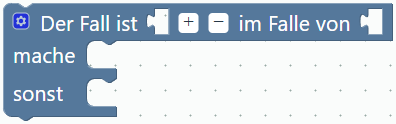
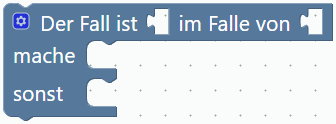
Document ioBroker-style gear controls and refresh block images

diff --git a/docs/projects/blocks-for-ha/blocks.md b/docs/projects/blocks-for-ha/blocks.md
@@ -5,6 +5,8 @@ description: Alle UGSo Blocks für HA mit Bild, Funktion und Originalplugins.
 
 # Liste der Blocks
 
+Seit **0.1.58** orientiert sich die Bedienung möglichst eng an ioBroker: Erweiterungen ausschließlich über das Zahnrad, ohne zusätzliche +/−/S-Knöpfe. Dies gilt auch für Objekte, Listen, Text, Fallauswahl und Parallel. Der kompakte UND-/ODER-Block ist aus dem Menü entfernt; alte Projekte bleiben lesbar. HA-Felder, Verbindungen und YAML-Funktionen bleiben erhalten. Ziel ist vertraute ioBroker-Optik bei umfassender HA-Automationsunterstützung.
+
 ## Nachrichten seit 0.1.48
 
 Neue Kategorie **Nachrichten**, drei DE/EN/FR-Bausteine. [Einrichtung, Schlüsselverwaltung und Versand](../callmebot/).
@@ -67,7 +69,7 @@ In Standard/Dark sind Auslöser orange, Bedingungen und Logik blau, Werte grün,
 | **Zufallsbruch**<br><code>ugso_math_random_fraction</code> | <img src="/assets/blocks-for-ha/blocks/de/ugso_math_random_fraction.png" alt="Zufallsbruch" style="max-width:280px;max-height:180px"> | Zufallswert in Schritten von 0,00001. Kein kryptografischer Zufall; bei jeder Auswertung neu. |
 | **Winkel atan2**<br><code>ugso_math_atan2</code> | <img src="/assets/blocks-for-ha/blocks/de/ugso_math_atan2.png" alt="Winkel atan2" style="max-width:280px;max-height:180px"> | Vierquadranten-Winkelfunktion aus dem Blockly-Standard, zusätzlich zu den gezeigten Bildern. |
 | **Zeilenumbruch**<br><code>ugso_text_newline</code> | <img src="/assets/blocks-for-ha/blocks/de/ugso_text_newline.png" alt="Zeilenumbruch" style="max-width:280px;max-height:180px"> | Liefert einen echten Zeilenumbruch für Textverknüpfung. |
-| **Text verknüpfen**<br><code>ugso_text_join</code> | <img src="/assets/blocks-for-ha/blocks/de/ugso_text_join.png" alt="Text verknüpfen" style="max-width:280px;max-height:180px"> | Verknüpft 0–100 Werte als Text. Zahnrad und +/− ändern die Anzahl der Eingänge. |
+| **Text verknüpfen**<br><code>ugso_text_join</code> | <img src="/assets/blocks-for-ha/blocks/de/ugso_text_join.png" alt="Text verknüpfen" style="max-width:280px;max-height:180px"> | Verknüpft 0–100 Werte als Text. Zahnrad ändern die Anzahl der Eingänge. |
 | **Text anhängen**<br><code>ugso_text_append</code> | <img src="/assets/blocks-for-ha/blocks/de/ugso_text_append.png" alt="Text anhängen" style="max-width:280px;max-height:180px"> | Weist der vorher initialisierten Textvariable einen neuen Text zu. Kein Schreiben einer HA-Entität. |
 | **Textlänge**<br><code>ugso_text_length</code> | <img src="/assets/blocks-for-ha/blocks/de/ugso_text_length.png" alt="Textlänge" style="max-width:280px;max-height:180px"> | Anzahl Unicode-Codepunkte, nicht JavaScript-UTF-16-Codeeinheiten. |
 | **Text ist leer**<br><code>ugso_text_empty</code> | <img src="/assets/blocks-for-ha/blocks/de/ugso_text_empty.png" alt="Text ist leer" style="max-width:280px;max-height:180px"> | Prüft einen Text auf Länge 0. |
@@ -144,7 +146,7 @@ Die violetten Zeit-Blocks verwenden einen eigenen typisierten Datumswert-Anschlu
 | **Aktuelle Zeit als Datumswert**<br><code>ugso_time_now</code> | <img src="/assets/blocks-for-ha/blocks/de/ugso_time_now.png" alt="Aktuelle Zeit als Datumswert" style="max-width:280px;max-height:180px"> | HA-Ortszeit mit Datum und Zeitzone, Time-Ausgang für Berechnung oder Formatierung. |
 | **Berechnete Zeit**<br><code>ugso_time_boundary</code> | <img src="/assets/blocks-for-ha/blocks/de/ugso_time_boundary.png" alt="Berechnete Zeit" style="max-width:280px;max-height:180px"> | Beginn von Tag, nächstem Tag, Woche (Montag), Monat oder Jahr in HA-Ortszeit. |
 | **Nächste Sonnenzeit**<br><code>ugso_time_sun</code> | <img src="/assets/blocks-for-ha/blocks/de/ugso_time_sun.png" alt="Nächste Sonnenzeit" style="max-width:280px;max-height:180px"> | Aufgang, Untergang, Dämmerung, Höchststand oder Sonnenmitternacht aus sun.sun. Minutenoffset; kann morgen sein. |
-| **Zeit berechnen**<br><code>ugso_time_shift</code> | <img src="/assets/blocks-for-ha/blocks/de/ugso_time_shift.png" alt="Zeit berechnen" style="max-width:280px;max-height:180px"> | Datumswert plus/minus Zahl in Millisekunden, Sekunden, Minuten, Stunden oder Tagen. |
+| **Zeit berechnen**<br><code>ugso_time_shift</code> | <img src="/assets/blocks-for-ha/blocks/de/ugso_time_shift.png" alt="Zeit berechnen" style="max-width:280px;max-height:180px"> | Datumswert gear Zahl in Millisekunden, Sekunden, Minuten, Stunden oder Tagen. |
 | **Zeit formatieren**<br><code>ugso_time_format</code> | <img src="/assets/blocks-for-ha/blocks/de/ugso_time_format.png" alt="Zeit formatieren" style="max-width:280px;max-height:180px"> | Datumswert als Uhrzeit, Datum, Datum/Uhrzeit, ISO mit Zeitzone oder Unix-Sekunden. |
 
 ## Weitere Blocks
@@ -159,7 +161,7 @@ Die violetten Zeit-Blocks verwenden einen eigenen typisierten Datumswert-Anschlu
 | **HA startet**<br><code>ugso_start_trigger</code> | <img src="/assets/blocks-for-ha/blocks/de/ugso_start_trigger.png" alt="HA startet" style="max-width:280px;max-height:180px"> | Startet beim Home-Assistant-Start; `trigger: homeassistant`. |
 | **Zustand ist**<br><code>ugso_state_condition</code> | <img src="/assets/blocks-for-ha/blocks/de/ugso_state_condition.png" alt="Zustand ist" style="max-width:280px;max-height:180px"> | Boolean-Bedingung: Entität hat den angegebenen Zustand; `condition: state`. |
 | **Zahlenvergleich**<br><code>ugso_numeric_condition</code> | <img src="/assets/blocks-for-ha/blocks/de/ugso_numeric_condition.png" alt="Zahlenvergleich" style="max-width:280px;max-height:180px"> | Boolean-Bedingung über/unter einer Grenze; `condition: numeric_state`. |
-| **UND / ODER / NICHT**<br><code>ugso_logic_condition</code> | <img src="/assets/blocks-for-ha/blocks/de/ugso_logic_condition.png" alt="UND / ODER / NICHT" style="max-width:280px;max-height:180px"> | Verknüpft 1–100 Bedingungen. Plus/Minus ergänzt oder entfernt den letzten Eingang; Zahnrad ordnet um. `and`, `or`, `not`. |
+| **UND / ODER / NICHT**<br><code>ugso_logic_condition</code> | <img src="/assets/blocks-for-ha/blocks/de/ugso_logic_condition.png" alt="UND / ODER / NICHT" style="max-width:280px;max-height:180px"> | Verknüpft 1–100 Bedingungen. Das Zahnrad ergänzt, entfernt und ordnet Eingänge um. `and`, `or`, `not`. |
 | **Datum heute**<br><code>ugso_date_condition</code> | <img src="/assets/blocks-for-ha/blocks/de/ugso_date_condition.png" alt="Datum heute" style="max-width:280px;max-height:180px"> | Datumsauswahl mit ist/ab/bis einschließlich Jahr. HA-Template vergleicht das heutige Datum in der HA-Zeitzone. Kein eigener Auslöser. |
 | **Zahl**<br><code>ugso_number</code> | <img src="/assets/blocks-for-ha/blocks/de/ugso_number.png" alt="Zahl" style="max-width:280px;max-height:180px"> | Unbegrenzter Zahlen-Wertblock. Passt in Grenzen und Wartezeiten; deren eigene Validierung gilt weiterhin. |
 | **Prozent**<br><code>ugso_percent</code> | <img src="/assets/blocks-for-ha/blocks/de/ugso_percent.png" alt="Prozent" style="max-width:280px;max-height:180px"> | Slider und genaue Eingabe für ganze Werte 0–100. Number-Output, beispielsweise für Ladezustand oder Helligkeit. |
@@ -211,9 +213,9 @@ Seit **0.1.56** steht hier auch der erweiterbare Falls-Block. Logik ist in Stand
 
 | Block | Bild im Editor | Funktionsbeschreibung |
 | --- | --- | --- |
-| **Falls / sonst falls / sonst**<br><code>ugso_if_action</code> | <img src="/assets/blocks-for-ha/blocks/de/ugso_if_action.png" alt="Falls / sonst falls / sonst" style="max-width:280px;max-height:180px"> | Plus/Minus ergänzt oder entfernt den letzten sonst-falls-Zweig; S schaltet Sonst um. Zahnrad zum Umordnen. `if` oder `choose`, erster passender Zweig. |
+| **Falls / sonst falls / sonst**<br><code>ugso_if_action</code> | <img src="/assets/blocks-for-ha/blocks/de/ugso_if_action.png" alt="Falls / sonst falls / sonst" style="max-width:280px;max-height:180px"> | Das Zahnrad ergänzt, entfernt und ordnet sonst-falls-Zweige um und fügt Sonst hinzu. `if` oder `choose`, erster passender Zweig. |
 | **Vergleich**<br><code>ugso_compare</code> | <img src="/assets/blocks-for-ha/blocks/de/ugso_compare.png" alt="Vergleich" style="max-width:280px;max-height:180px"> | Vergleicht zwei Werte mit =, ≠, &lt;, ≤, &gt; oder ≥. Zahlen, Texte, Variablen und einzelne Template-Ausdrücke anschließen. Liefert Boolean; Ausgabe als HA-Template-Bedingung oder Variablenwert. |
-| **UND / ODER kompakt**<br><code>ugso_binary_logic</code> | <img src="/assets/blocks-for-ha/blocks/de/ugso_binary_logic.png" alt="UND ODER kompakt" style="max-width:280px;max-height:180px"> | Zwei Boolean-Eingänge. Als Bedingung native HA-`and`/`or`-Gruppe; als Variablenwert geklammerter Jinja-Ausdruck. Die erweiterbare Gruppe bleibt für mehr Eingänge verfügbar. |
+| **UND / ODER kompakt**<br><code>ugso_binary_logic</code> | <img src="/assets/blocks-for-ha/blocks/de/ugso_binary_logic.png" alt="UND ODER kompakt" style="max-width:280px;max-height:180px"> | Nur für bestehende Projekte; aus der Blockauswahl entfernt. Stattdessen die erweiterbare UND-/ODER-Gruppe verwenden. |
 | **NICHT**<br><code>ugso_not</code> | <img src="/assets/blocks-for-ha/blocks/de/ugso_not.png" alt="NICHT" style="max-width:280px;max-height:180px"> | Negiert eine Boolean-Bedingung. Als Bedingung native HA-`not`-Gruppe, als Variablenwert Jinja-`not`. |
 | **wahr / falsch**<br><code>ugso_boolean</code> | <img src="/assets/blocks-for-ha/blocks/de/ugso_boolean.png" alt="wahr falsch" style="max-width:280px;max-height:180px"> | Boolean-Konstante mit Dropdown. Für Bedingungen und Variablen; die Zuweisung erzeugt echte YAML-Boolean-Werte. |
 | **null**<br><code>ugso_null</code> | <img src="/assets/blocks-for-ha/blocks/de/ugso_null.png" alt="null" style="max-width:280px;max-height:180px"> | Kein Wert. Variablen erhalten YAML `null`, Ausdrücke Jinja `none`. Weder `0` noch `falsch`; kein Boolean-Bedingungsblock. |
@@ -227,7 +229,7 @@ JSON-Projekte bewahren die Blockformen und Anschlüsse. YAML speichert die nativ
 
 ## Originalplugins und Einbindung
 
-Die sechs bisherigen Originalplugins sind auf **13.2.0**, die vier Theme-/Zoom-Plugins und die Arbeitsbereichssuche auf **13.3.0** festgelegt und werden lokal mit Blockly **13.3.0** ausgeliefert. Lizenz: Apache-2.0. Die folgenden Links führen direkt zu den Original-Repositories. Unsere HA-Blocks, YAML-Adapter und Plus/Minus-Steuerung sind eigener UGSo-Code.
+Die sechs bisherigen Originalplugins sind auf **13.2.0**, die vier Theme-/Zoom-Plugins und die Arbeitsbereichssuche auf **13.3.0** festgelegt und werden lokal mit Blockly **13.3.0** ausgeliefert. Lizenz: Apache-2.0. Die folgenden Links führen direkt zu den Original-Repositories. Unsere HA-Blocks, YAML-Adapter und Zahnrad-Baukästen sind eigener UGSo-Code.
 
 | Originalplugin | Nutzung / Stand |
 | --- | --- |

diff --git a/docs/en/projects/blocks-for-ha/blocks.md b/docs/en/projects/blocks-for-ha/blocks.md
@@ -5,6 +5,8 @@ description: All Blocks for HA with images, functionality and original plugins.
 
 # Block catalog
 
+Since **0.1.58**, controls follow ioBroker as closely as possible: expansion uses the gear only, without additional +/minus/S buttons. This also applies to objects, lists, text, cases and parallel branches. Compact AND/OR is removed from the toolbox; existing projects remain readable. HA fields, connections and YAML features remain supported. The design goal is familiar ioBroker appearance with comprehensive HA automation support.
+
 ## Messages since 0.1.48
 
 New **Messages** category, three DE/EN/FR blocks. [Setup, credentials and sending](../callmebot/).
@@ -67,7 +69,7 @@ In Standard/Dark, triggers are orange, conditions and logic blue, values green, 
 | **Random fraction**<br><code>ugso_math_random_fraction</code> | <img src="/assets/blocks-for-ha/blocks/en/ugso_math_random_fraction.png" alt="Random fraction" style="max-width:280px;max-height:180px"> | 0 up to but excluding 1, in increments of 0.00001; evaluated anew each time. |
 | **atan2 angle**<br><code>ugso_math_atan2</code> | <img src="/assets/blocks-for-ha/blocks/en/ugso_math_atan2.png" alt="atan2 angle" style="max-width:280px;max-height:180px"> | Additional Blockly standard operation; four-quadrant angle in degrees. |
 | **Newline**<br><code>ugso_text_newline</code> | <img src="/assets/blocks-for-ha/blocks/en/ugso_text_newline.png" alt="Newline" style="max-width:280px;max-height:180px"> | Actual LF, CRLF or CR newline value. |
-| **Join text**<br><code>ugso_text_join</code> | <img src="/assets/blocks-for-ha/blocks/en/ugso_text_join.png" alt="Join text" style="max-width:280px;max-height:180px"> | 0–100 inputs combined as text; gear or +/− controls the input count. |
+| **Join text**<br><code>ugso_text_join</code> | <img src="/assets/blocks-for-ha/blocks/en/ugso_text_join.png" alt="Join text" style="max-width:280px;max-height:180px"> | 0–100 inputs combined as text; the gear controls the input count. |
 | **Append text**<br><code>ugso_text_append</code> | <img src="/assets/blocks-for-ha/blocks/en/ugso_text_append.png" alt="Append text" style="max-width:280px;max-height:180px"> | Assign a new value to an already initialized text variable. |
 | **Text length**<br><code>ugso_text_length</code> | <img src="/assets/blocks-for-ha/blocks/en/ugso_text_length.png" alt="Text length" style="max-width:280px;max-height:180px"> | Count Unicode code points rather than JavaScript UTF-16 units. |
 | **Text empty**<br><code>ugso_text_empty</code> | <img src="/assets/blocks-for-ha/blocks/en/ugso_text_empty.png" alt="Text empty" style="max-width:280px;max-height:180px"> | Check whether text has length zero. |
@@ -144,7 +146,7 @@ Purple time blocks use a typed datetime socket. [Usage, boundary rules and compa
 | **Current datetime**<br><code>ugso_time_now</code> | <img src="/assets/blocks-for-ha/blocks/en/ugso_time_now.png" alt="Current datetime" style="max-width:280px;max-height:180px"> | HA local date, time and timezone. Typed Time output. |
 | **Calendar start**<br><code>ugso_time_boundary</code> | <img src="/assets/blocks-for-ha/blocks/en/ugso_time_boundary.png" alt="Calendar start" style="max-width:280px;max-height:180px"> | Start of today, tomorrow, week (Monday), month or year. |
 | **Next sun event**<br><code>ugso_time_sun</code> | <img src="/assets/blocks-for-ha/blocks/en/ugso_time_sun.png" alt="Next sun event" style="max-width:280px;max-height:180px"> | Rise, set, dawn, dusk, solar noon or midnight from sun.sun, with minute offset. May be tomorrow. |
-| **Shift datetime**<br><code>ugso_time_shift</code> | <img src="/assets/blocks-for-ha/blocks/en/ugso_time_shift.png" alt="Shift datetime" style="max-width:280px;max-height:180px"> | Datetime plus/minus number in milliseconds, seconds, minutes, hours or days. |
+| **Shift datetime**<br><code>ugso_time_shift</code> | <img src="/assets/blocks-for-ha/blocks/en/ugso_time_shift.png" alt="Shift datetime" style="max-width:280px;max-height:180px"> | Datetime gear number in milliseconds, seconds, minutes, hours or days. |
 | **Format datetime**<br><code>ugso_time_format</code> | <img src="/assets/blocks-for-ha/blocks/en/ugso_time_format.png" alt="Format datetime" style="max-width:280px;max-height:180px"> | Clock time, date, date/time, ISO with timezone or Unix seconds. |
 
 ## Other blocks
@@ -159,7 +161,7 @@ Purple time blocks use a typed datetime socket. [Usage, boundary rules and compa
 | **HA starts**<br><code>ugso_start_trigger</code> | <img src="/assets/blocks-for-ha/blocks/en/ugso_start_trigger.png" alt="HA starts" style="max-width:280px;max-height:180px"> | Starts when Home Assistant starts; `trigger: homeassistant`. |
 | **State is**<br><code>ugso_state_condition</code> | <img src="/assets/blocks-for-ha/blocks/en/ugso_state_condition.png" alt="State is" style="max-width:280px;max-height:180px"> | Boolean condition: entity has the specified state; `condition: state`. |
 | **Numeric condition**<br><code>ugso_numeric_condition</code> | <img src="/assets/blocks-for-ha/blocks/en/ugso_numeric_condition.png" alt="Numeric condition" style="max-width:280px;max-height:180px"> | Boolean above/below threshold condition; `condition: numeric_state`. |
-| **AND / OR / NOT**<br><code>ugso_logic_condition</code> | <img src="/assets/blocks-for-ha/blocks/en/ugso_logic_condition.png" alt="AND / OR / NOT" style="max-width:280px;max-height:180px"> | Combines 1–100 conditions. Plus/minus adds or removes the last input; gear reorders. `and`, `or`, `not`. |
+| **AND / OR / NOT**<br><code>ugso_logic_condition</code> | <img src="/assets/blocks-for-ha/blocks/en/ugso_logic_condition.png" alt="AND / OR / NOT" style="max-width:280px;max-height:180px"> | Combines 1–100 conditions. The gear adds, removes and reorders inputs. `and`, `or`, `not`. |
 | **Today’s date**<br><code>ugso_date_condition</code> | <img src="/assets/blocks-for-ha/blocks/en/ugso_date_condition.png" alt="Today’s date" style="max-width:280px;max-height:180px"> | Date picker with equals/on-or-after/on-or-before, including year. HA template compares today in HA’s time zone. Not a trigger. |
 | **Number**<br><code>ugso_number</code> | <img src="/assets/blocks-for-ha/blocks/en/ugso_number.png" alt="Number" style="max-width:280px;max-height:180px"> | General numeric value. Fits thresholds and delays; destination-specific validation still applies. |
 | **Percentage**<br><code>ugso_percent</code> | <img src="/assets/blocks-for-ha/blocks/en/ugso_percent.png" alt="Percentage" style="max-width:280px;max-height:180px"> | Slider and exact input for integers 0–100. Number output, e.g. charge level or brightness. |
@@ -211,9 +213,9 @@ Since **0.1.56**, the expandable If block is available here. Logic is blue and O
 
 | Block | Editor image | Function |
 | --- | --- | --- |
-| **If / else if / else**<br><code>ugso_if_action</code> | <img src="/assets/blocks-for-ha/blocks/en/ugso_if_action.png" alt="If / else if / else" style="max-width:280px;max-height:180px"> | Plus/minus adds or removes the last else-if branch; S toggles else. Gear reorders. `if` or `choose`, first matching branch. |
+| **If / else if / else**<br><code>ugso_if_action</code> | <img src="/assets/blocks-for-ha/blocks/en/ugso_if_action.png" alt="If / else if / else" style="max-width:280px;max-height:180px"> | The gear adds, removes and reorders else-if branches and adds Else. `if` or `choose`, first matching branch. |
 | **Compare**<br><code>ugso_compare</code> | <img src="/assets/blocks-for-ha/blocks/en/ugso_compare.png" alt="Compare" style="max-width:280px;max-height:180px"> | Compares two values using =, ≠, &lt;, ≤, &gt; or ≥. Accepts numbers, text, variables and single template expressions. Boolean result exported as an HA template condition or variable value. |
-| **Compact AND / OR**<br><code>ugso_binary_logic</code> | <img src="/assets/blocks-for-ha/blocks/en/ugso_binary_logic.png" alt="Compact AND OR" style="max-width:280px;max-height:180px"> | Two Boolean inputs. Generates native HA `and`/`or` groups as conditions and parenthesized Jinja as variable values. Expandable groups remain available. |
+| **Compact AND / OR**<br><code>ugso_binary_logic</code> | <img src="/assets/blocks-for-ha/blocks/en/ugso_binary_logic.png" alt="Compact AND OR" style="max-width:280px;max-height:180px"> | Existing projects only; removed from the toolbox. Use the expandable AND/OR group instead. |
 | **NOT**<br><code>ugso_not</code> | <img src="/assets/blocks-for-ha/blocks/en/ugso_not.png" alt="NOT" style="max-width:280px;max-height:180px"> | Negates a Boolean condition. Native HA `not` group as condition, Jinja `not` as variable value. |
 | **true / false**<br><code>ugso_boolean</code> | <img src="/assets/blocks-for-ha/blocks/en/ugso_boolean.png" alt="true false" style="max-width:280px;max-height:180px"> | Boolean constant with dropdown for conditions and variables. Assignments retain native YAML Boolean types. |
 | **null**<br><code>ugso_null</code> | <img src="/assets/blocks-for-ha/blocks/en/ugso_null.png" alt="null" style="max-width:280px;max-height:180px"> | No value: YAML `null` in assignments, Jinja `none` in expressions. Different from `0` and `false`; not a Boolean condition. |
@@ -227,7 +229,7 @@ JSON projects preserve block shapes and connections. YAML preserves native meani
 
 ## Original plugins and integration
 
-The six existing plugins are pinned to **13.2.0**, the four theme/zoom plugins and workspace search to **13.3.0**, all bundled locally with Blockly **13.3.0**. License: Apache-2.0. Links below lead directly to upstream repositories. HA blocks, YAML adapters and plus/minus controls are UGSo code.
+The six existing plugins are pinned to **13.2.0**, the four theme/zoom plugins and workspace search to **13.3.0**, all bundled locally with Blockly **13.3.0**. License: Apache-2.0. Links below lead directly to upstream repositories. HA blocks, YAML adapters and gear controls are UGSo code.
 
 | Originalplugin | Usage / status |
 | --- | --- |

diff --git a/docs/fr/projects/blocks-for-ha/blocks.md b/docs/fr/projects/blocks-for-ha/blocks.md
@@ -5,6 +5,8 @@ description: Tous les blocs UGSo avec images françaises et fonctions.
 
 # Catalogue des blocs
 
+Depuis **0.1.58**, les commandes suivent autant que possible ioBroker : extension uniquement par l’engrenage, sans boutons +/−/S supplémentaires. Cela concerne aussi objets, listes, texte, cas et branches parallèles. ET/OU compact est retiré du menu ; les projets existants restent lisibles. Les champs HA, connexions et fonctions YAML sont conservés. L’objectif est une apparence familière d’ioBroker avec une prise en charge complète des automatisations HA.
+
 ## Messages depuis 0.1.48
 
 Nouvelle catégorie **Messages**, trois blocs DE/EN/FR. [Configuration, clés et envoi](../callmebot/).
@@ -87,7 +89,7 @@ Dans Standard/Dark, les déclencheurs sont orange, les conditions et la logique 
 
 | Bloc | Image | Fonction |
 | --- | --- | --- |
-| **Nouvel objet …**<br><code>ugso_object_new</code> | <img src="/assets/blocks-for-ha/blocks/fr/ugso_object_new.png" alt="Nouvel objet …" style="max-width:280px;max-height:180px"> | Dictionnaire local à attributs nommés. Ajouter des entrées avec l’engrenage ou +/−. Ce n’est ni une entité HA ni un point de données ioBroker. |
+| **Nouvel objet …**<br><code>ugso_object_new</code> | <img src="/assets/blocks-for-ha/blocks/fr/ugso_object_new.png" alt="Nouvel objet …" style="max-width:280px;max-height:180px"> | Dictionnaire local à attributs nommés. Ajouter des entrées avec l’engrenage. Ce n’est ni une entité HA ni un point de données ioBroker. |
 | **Attribut … de l’objet …**<br><code>ugso_object_get</code> | <img src="/assets/blocks-for-ha/blocks/fr/ugso_object_get.png" alt="Attribut … de l’objet …" style="max-width:280px;max-height:180px"> | Lit une clé du dictionnaire, y compris keys/items. Clé absente : null ; type d’objet invalide : erreur de modèle HA. |
 | **L’objet … possède l’attribut …**<br><code>ugso_object_has</code> | <img src="/assets/blocks-for-ha/blocks/fr/ugso_object_has.png" alt="L’objet … possède l’attribut …" style="max-width:280px;max-height:180px"> | Vérifier la présence d’une clé dans un dictionnaire, y compris une clé dont la valeur est null. |
 | **Attributs de l’objet …**<br><code>ugso_object_keys</code> | <img src="/assets/blocks-for-ha/blocks/fr/ugso_object_keys.png" alt="Attributs de l’objet …" style="max-width:280px;max-height:180px"> | Liste des clés du dictionnaire, pour parcourir les éléments ou produire du JSON. |
@@ -128,10 +130,10 @@ Depuis **0.1.56**, le bloc Si extensible est disponible ici. Logique est bleu et
 
 | Bloc | Image | Fonction |
 | --- | --- | --- |
-| **Si … faire …**<br><code>ugso_if_action</code> | <img src="/assets/blocks-for-ha/blocks/fr/ugso_if_action.png" alt="Si … faire …" style="max-width:280px;max-height:180px"> | Branche if native HA avec actions, sinon si et sinon. Engrenage et +/− pour étendre les branches. |
-| **Groupe de conditions**<br><code>ugso_logic_condition</code> | <img src="/assets/blocks-for-ha/blocks/fr/ugso_logic_condition.png" alt="Groupe de conditions" style="max-width:280px;max-height:180px"> | Groupe ET, OU ou NON extensible jusqu’à 100 conditions. Engrenage ou +/− pour modifier les entrées. |
+| **Si … faire …**<br><code>ugso_if_action</code> | <img src="/assets/blocks-for-ha/blocks/fr/ugso_if_action.png" alt="Si … faire …" style="max-width:280px;max-height:180px"> | Branche if native HA avec actions, sinon si et sinon. Engrenage pour étendre les branches. |
+| **Groupe de conditions**<br><code>ugso_logic_condition</code> | <img src="/assets/blocks-for-ha/blocks/fr/ugso_logic_condition.png" alt="Groupe de conditions" style="max-width:280px;max-height:180px"> | Groupe ET, OU ou NON extensible jusqu’à 100 conditions. Engrenage pour modifier les entrées. |
 | **Comparaison**<br><code>ugso_compare</code> | <img src="/assets/blocks-for-ha/blocks/fr/ugso_compare.png" alt="Comparaison" style="max-width:280px;max-height:180px"> | Compare deux valeurs HA. Nombres et textes ont des types différents ; convertir explicitement les valeurs de capteurs dans les modèles. |
-| **ET / OU compact**<br><code>ugso_binary_logic</code> | <img src="/assets/blocks-for-ha/blocks/fr/ugso_binary_logic.png" alt="ET / OU compact" style="max-width:280px;max-height:180px"> | Combiner deux booléens avec ET/OU ; groupe natif HA ou expression Jinja selon l’usage. |
+| **ET / OU compact**<br><code>ugso_binary_logic</code> | <img src="/assets/blocks-for-ha/blocks/fr/ugso_binary_logic.png" alt="ET / OU compact" style="max-width:280px;max-height:180px"> | Projets existants uniquement ; retiré du menu. Utiliser le groupe ET/OU extensible. |
 | **NON …**<br><code>ugso_not</code> | <img src="/assets/blocks-for-ha/blocks/fr/ugso_not.png" alt="NON …" style="max-width:280px;max-height:180px"> | Nier une condition : groupe not natif HA ou expression not Jinja lorsqu’utilisé comme valeur. |
 | **Vrai / faux**<br><code>ugso_boolean</code> | <img src="/assets/blocks-for-ha/blocks/fr/ugso_boolean.png" alt="Vrai / faux" style="max-width:280px;max-height:180px"> | Constante vrai/faux, pour conditions et variables. L’export conserve le type booléen YAML. |
 | **aucune valeur (null)**<br><code>ugso_null</code> | <img src="/assets/blocks-for-ha/blocks/fr/ugso_null.png" alt="aucune valeur (null)" style="max-width:280px;max-height:180px"> | YAML null ou Jinja none, ni zéro ni faux. |
@@ -174,7 +176,7 @@ Depuis **0.1.56**, le bloc Si extensible est disponible ici. Logique est bleu et
 | --- | --- | --- |
 | **Texte …**<br><code>ugso_text</code> | <img src="/assets/blocks-for-ha/blocks/fr/ugso_text.png" alt="Texte …" style="max-width:280px;max-height:180px"> | Texte multiligne éditable ; contenu conservé exactement sans traduction automatique. |
 | **Saut de ligne …**<br><code>ugso_text_newline</code> | <img src="/assets/blocks-for-ha/blocks/fr/ugso_text_newline.png" alt="Saut de ligne …" style="max-width:280px;max-height:180px"> | Un véritable saut de ligne pour assembler du texte. |
-| **Créer du texte avec …**<br><code>ugso_text_join</code> | <img src="/assets/blocks-for-ha/blocks/fr/ugso_text_join.png" alt="Créer du texte avec …" style="max-width:280px;max-height:180px"> | Assemble 0–100 valeurs en texte. Engrenage et +/− modifient le nombre d’entrées. |
+| **Créer du texte avec …**<br><code>ugso_text_join</code> | <img src="/assets/blocks-for-ha/blocks/fr/ugso_text_join.png" alt="Créer du texte avec …" style="max-width:280px;max-height:180px"> | Assemble 0–100 valeurs en texte. L’engrenage modifie le nombre d’entrées. |
 | **Ajouter le texte … à la variable …**<br><code>ugso_text_append</code> | <img src="/assets/blocks-for-ha/blocks/fr/ugso_text_append.png" alt="Ajouter le texte … à la variable …" style="max-width:280px;max-height:180px"> | Affecte un nouveau texte à une variable textuelle déjà initialisée. N’écrit pas dans une entité HA. |
 | **Longueur du texte …**<br><code>ugso_text_length</code> | <img src="/assets/blocks-for-ha/blocks/fr/ugso_text_length.png" alt="Longueur du texte …" style="max-width:280px;max-height:180px"> | Nombre de points de code Unicode, pas d’unités UTF-16 JavaScript. |
 | **Le texte … est vide**<br><code>ugso_text_empty</code> | <img src="/assets/blocks-for-ha/blocks/fr/ugso_text_empty.png" alt="Le texte … est vide" style="max-width:280px;max-height:180px"> | Vérifie si la longueur du texte est zéro. |
@@ -192,7 +194,7 @@ Depuis **0.1.56**, le bloc Si extensible est disponible ici. Logique est bleu et
 
 | Bloc | Image | Fonction |
 | --- | --- | --- |
-| **Liste …**<br><code>ugso_list_new</code> | <img src="/assets/blocks-for-ha/blocks/fr/ugso_list_new.png" alt="Liste …" style="max-width:280px;max-height:180px"> | Créer une liste de 0–100 valeurs ; l’engrenage ou +/− modifie le nombre d’entrées. |
+| **Liste …**<br><code>ugso_list_new</code> | <img src="/assets/blocks-for-ha/blocks/fr/ugso_list_new.png" alt="Liste …" style="max-width:280px;max-height:180px"> | Créer une liste de 0–100 valeurs ; l’engrenage modifie le nombre d’entrées. |
 | **Longueur de la liste …**<br><code>ugso_list_length</code> | <img src="/assets/blocks-for-ha/blocks/fr/ugso_list_length.png" alt="Longueur de la liste …" style="max-width:280px;max-height:180px"> | Nombre d’éléments, utilisable comme nombre à l’exécution. L’entrée doit être une liste. |
 | **La liste … est vide**<br><code>ugso_list_empty</code> | <img src="/assets/blocks-for-ha/blocks/fr/ugso_list_empty.png" alt="La liste … est vide" style="max-width:280px;max-height:180px"> | Vérifie la longueur d’une liste, pas une valeur fausse générale de JavaScript. |
 | **Liste avec … copies de …**<br><code>ugso_list_repeat</code> | <img src="/assets/blocks-for-ha/blocks/fr/ugso_list_repeat.png" alt="Liste avec … copies de …" style="max-width:280px;max-height:180px"> | Nouvelle liste avec 0–10000 répétitions d’une valeur. |

diff --git a/docs/projects/blocks-for-ha/flow.md b/docs/projects/blocks-for-ha/flow.md
@@ -31,7 +31,7 @@ Konstante Dauer: 0–86400 Sekunden mit expliziter Einheit. Konstante Wiederholu
 
 | ioBroker | UGSo Block | Verhalten |
 | --- | --- | --- |
-| Neues Objekt mit Zahnrad | **Neues Objekt** mit Zahnrad und +/− | 0–100 Attribute, eindeutige frei benannte Schlüssel, beliebige Werte einschließlich verschachtelter Objekte/Listen. |
+| Neues Objekt mit Zahnrad | **Neues Objekt** mit Zahnrad | 0–100 Attribute, eindeutige frei benannte Schlüssel, beliebige Werte einschließlich verschachtelter Objekte/Listen. |
 | Setze Attribut des Objekts auf Wert | **Setze Attribut in Variable auf** | Neue HA-Variablenzuweisung an eine vorher gesetzte Objektvariable. Andere Variablenkopien bleiben unverändert. |
 | Entferne Attribut | **Entferne Attribut aus Variable** | Neues Dictionary ohne den Schlüssel; fehlt er, bleibt der Inhalt gleich. |
 | Objekt hat Attribut | **Objekt hat Attribut** | Boolean-Test auf einen eigenen Dictionary-Schlüssel. |
@@ -48,8 +48,8 @@ Die originalen [Blockly-Logikdefinitionen](https://github.com/RaspberryPiFoundat
 
 | ioBroker-Erweiterung | UGSo | Semantik |
 | --- | --- | --- |
-| UND/ODER mit Zahnrad | Bestehende erweiterbare Gruppe, auch unter Logik | 1–100 Boolean-Eingänge; +/− und Zahnrad zum Umordnen. |
-| der Fall ist / im Falle von / machen | **Der Fall ist** | 1–100 Fälle mit +/− und Zahnrad, optional belegter sonst-Körper. Erste Übereinstimmung gewinnt; kein JavaScript-Fallthrough. |
+| UND/ODER mit Zahnrad | Bestehende erweiterbare Gruppe, auch unter Logik | 1–100 Boolean-Eingänge; Zahnrad zum Umordnen. |
+| der Fall ist / im Falle von / machen | **Der Fall ist** | 1–100 Fälle mit Zahnrad, optional belegter sonst-Körper. Erste Übereinstimmung gewinnt; kein JavaScript-Fallthrough. |
 | min ≤ wert ≤ max | **Bereichsvergleich** | Beide Grenzen separat strikt oder einschließlich. Keine automatische Text-in-Zahl-Konvertierung; **Nach Zahl** bei Sensor-/Templatewerten einsetzen. |
 | wenn leer … dann … | **Ersatzwert** mit Modusauswahl | Standard null/nicht gesetzt erhält 0/falsch/leeren Text. „leer/falsch/0“ ersetzt auch leere Listen und Dictionaries. |
 

diff --git a/docs/en/projects/blocks-for-ha/flow.md b/docs/en/projects/blocks-for-ha/flow.md
@@ -31,7 +31,7 @@ Constant duration: 0–86400 seconds with an explicit unit. Constant count: 1–
 
 | ioBroker | UGSo block | Behavior |
 | --- | --- | --- |
-| New object with gear | **New object** with gear and +/− | 0–100 attributes, unique names, arbitrary values including nested objects/lists. |
+| New object with gear | **New object** with gear | 0–100 attributes, unique names, arbitrary values including nested objects/lists. |
 | Set object attribute | **Set attribute in variable** | Reassigns a previously initialized HA object variable to a new dictionary. Other variable copies are unchanged. |
 | Delete attribute | **Remove attribute from variable** | New dictionary without the key; an absent key leaves the contents unchanged. |
 | Object has attribute | **Object has attribute** | Boolean test for a dictionary key. |
@@ -48,8 +48,8 @@ Original [Blockly logic definitions](https://github.com/RaspberryPiFoundation/bl
 
 | ioBroker extension | UGSo | Semantics |
 | --- | --- | --- |
-| Expandable AND/OR | Existing group, also under Logic | 1–100 Boolean inputs, +/− and gear for reordering. |
-| Switch/case/action | **Case selection** | 1–100 cases with +/− and gear, optional populated default body. First match wins; no JavaScript fallthrough. |
+| Expandable AND/OR | Existing group, also under Logic | 1–100 Boolean inputs, gear for reordering. |
+| Switch/case/action | **Case selection** | 1–100 cases with the gear, optional populated default body. First match wins; no JavaScript fallthrough. |
 | min ≤ value ≤ max | **Range comparison** | Independently strict/inclusive bounds. No automatic string-to-number conversion; use **To number** for sensor/template values. |
 | If empty, fallback | **Fallback value**, two modes | Default null/undefined preserves zero, false and empty text. Empty/false/zero mode also replaces empty lists/dictionaries. |
 

diff --git a/docs/fr/projects/blocks-for-ha/flow.md b/docs/fr/projects/blocks-for-ha/flow.md
@@ -22,13 +22,13 @@ Ajouter une pause si une boucle risque de tourner continuellement. Une condition
 
 ## Objets et listes
 
-Un nouvel objet est un dictionnaire local. L’engrenage ou +/− ajoute jusqu’à 100 clés. On peut lire un attribut, vérifier sa présence et obtenir la liste des clés. Clé absente : `null` ; objet invalide : erreur de modèle HA.
+Un nouvel objet est un dictionnaire local. L’engrenage ajoute jusqu’à 100 clés. On peut lire un attribut, vérifier sa présence et obtenir la liste des clés. Clé absente : `null` ; objet invalide : erreur de modèle HA.
 
 Modifier/supprimer un attribut affecte un **nouveau dictionnaire** à la variable. Initialiser la variable comme objet auparavant. Ces opérations ne modifient ni une autre variable ni les attributs d’une entité HA. Les listes sont aussi des valeurs locales ; les changements produisent de nouvelles listes compatibles avec le bac à sable Jinja immuable.
 
 ## Logique et choix
 
-Comparaison, ET/OU, NON, booléens, null et choix de valeur sont disponibles. Les groupes ET/OU/NON peuvent être étendus avec +/− ou l’engrenage. Utilisés comme conditions, ils génèrent les groupes natifs HA ; utilisés comme valeurs, ils génèrent des expressions Jinja.
+Comparaison, ET/OU, NON, booléens, null et choix de valeur sont disponibles. Les groupes ET/OU/NON peuvent être étendus avec l’engrenage. Utilisés comme conditions, ils génèrent les groupes natifs HA ; utilisés comme valeurs, ils génèrent des expressions Jinja.
 
 **Si / sinon si / sinon** crée des branches d’actions. **Selon la valeur** compare des cas, exécute seulement le premier cas correspondant puis utilise la branche par défaut si nécessaire. Il génère `choose`, sans passage automatique aux cas suivants de JavaScript.
 

diff --git a/docs/projects/blocks-for-ha/index.md b/docs/projects/blocks-for-ha/index.md
@@ -60,7 +60,7 @@ Die [Liste aller 163 Blocks](./blocks) zeigt jeden Block mit Bild und Funktionsb
 
 Neu in **0.1.8**: **Variablen → Variable erstellen …**, Setzen-/Lesen-Blocks und die Kategorie **Templates** mit eigenen Wert- und Bedingungsblocks. Variablen erzeugen native HA-`variables`-Aktionen; Lesen erzeugt <code v-pre>{{ name }}</code>. Jinja wird erst in HA ausgewertet. [Anleitung, Beispiel und Importgrenzen](./blocks#variablen-und-templates-verwenden).
 
-Neu in 0.1.7: **Suche am Menüende**, mehrzeilige Texte, Prozent-Slider, Farbe und Lichtaktion, Datum heute und abhängige Helfer-Dropdowns. Plus/Minus ergänzt oder entfernt den letzten Eingang beziehungsweise sonst-falls-Zweig; **S** schaltet Sonst um. Entfernte Eingänge lösen ihre Blocks ab, löschen sie nicht. Das Zahnrad bleibt zum Umordnen.
+Neu in 0.1.7: **Suche am Menüende**, mehrzeilige Texte, Prozent-Slider, Farbe und Lichtaktion, Datum heute und abhängige Helfer-Dropdowns. Seit 0.1.58 erfolgen Erweiterungen ausschließlich über das Zahnrad, einschließlich Sonst. Entfernte Eingänge lösen ihre Blocks ab, löschen sie nicht. Das Zahnrad bleibt zum Umordnen.
 
 Der Datumsvergleich einschließlich Jahr wird in HA mit `now().strftime('%Y-%m-%d')` ausgewertet; er verwendet die HA-Zeitzone und ist eine Bedingung, kein Auslöser. Diese Form erhält beim Import den Datumsblock; andere Template-Bedingungen erhalten den allgemeinen Template-Block. Die Lichtaktion erzeugt RGB-Farbe und Helligkeit in Prozent. Timer nutzen ihre konfigurierte Dauer; zusätzliche Parameter bleiben in der generischen HA-Aktion. Die tatsächlichen Gerätefähigkeiten müssen in HA geprüft werden.
 

diff --git a/docs/en/projects/blocks-for-ha/index.md b/docs/en/projects/blocks-for-ha/index.md
@@ -60,7 +60,7 @@ The [catalog of all 163 blocks](./blocks) shows an image and description for eac
 
 New in **0.1.8**: **Variablen → Variable erstellen …**, Set/Read variable blocks and a **Templates** category with dedicated value and condition blocks. Variables generate native HA `variables` actions; reads produce <code v-pre>{{ name }}</code>. Jinja is evaluated in HA. [Usage, example and import limits](./blocks#using-variables-and-templates).
 
-New in 0.1.7: **search at the bottom of the menu**, multiline text, percentage slider, colour/light action, today’s date and dependent helper dropdowns. Plus/minus adds or removes the last input or else-if branch; **S** toggles else. Removing inputs detaches blocks without deleting them. The gear remains for reordering.
+New in 0.1.7: **search at the bottom of the menu**, multiline text, percentage slider, colour/light action, today’s date and dependent helper dropdowns. The gear adds or removes the last input or else-if branch; **S** toggles else. Removing inputs detaches blocks without deleting them. The gear remains for reordering.
 
 The date comparison includes the year and uses HA’s `now().strftime('%Y-%m-%d')`, evaluated in HA’s time zone. It is a condition, not a trigger. Import maps this shape to the date block and other template conditions to the general template block. The light action generates RGB colour and percentage brightness. Timers use their configured duration; additional parameters stay in the generic HA action. Actual device capabilities must be checked in HA.
 

diff --git a/docs/projects/blocks-for-ha/themes.md b/docs/projects/blocks-for-ha/themes.md
@@ -6,7 +6,7 @@ description: Gespeicherte Theme-Auswahl und zusätzlicher Einpassen-Knopf im Blo
 
 ## Logik und Objekte seit 0.1.56
 
-In Standard/Dark sind Logik-Blocks blau und Objekt-Blocks braun, jeweils mit lesbarer weißer Schrift. Modern und Tritanopia behalten ihre eigenen Paletten. **Falls / sonst falls / sonst** steht jetzt direkt in **Logik**: Das Zahnrad öffnet den Baukasten für weitere Zweige; **+ / −** ergänzt oder entfernt einen sonst-falls-Zweig, **S** schaltet Sonst um. Bedingungen und Aktionsketten werden als native HA-Verzweigung ausgegeben. Bestehende Projekte bleiben kompatibel.
+In Standard/Dark sind Logik-Blocks blau und Objekt-Blocks braun, jeweils mit lesbarer weißer Schrift. Modern und Tritanopia behalten ihre eigenen Paletten. **Falls / sonst falls / sonst** steht jetzt direkt in **Logik**: Das Zahnrad öffnet den Baukasten für weitere Zweige; weitere Zweige und Sonst werden dort hinzugefügt oder entfernt. Bedingungen und Aktionsketten werden als native HA-Verzweigung ausgegeben. Bestehende Projekte bleiben kompatibel.
 
 ## Punktraster seit 0.1.51
 

diff --git a/docs/fr/projects/blocks-for-ha/themes.md b/docs/fr/projects/blocks-for-ha/themes.md
@@ -6,7 +6,7 @@ title: Thèmes et zoom
 
 ## Logique et Objets depuis 0.1.56
 
-Dans Standard/Dark, les blocs logiques sont bleus et les objets bruns, avec des libellés blancs lisibles. Modern et Tritanopia conservent leurs propres palettes. **Si / sinon si / sinon** est désormais disponible dans **Logique** : l’engrenage ouvre le constructeur de branches ; **+ / −** ajoute ou retire une branche sinon si, et **S** active ou désactive Sinon. Les conditions et séquences d’actions produisent une branche native HA. Les projets existants restent compatibles.
+Dans Standard/Dark, les blocs logiques sont bleus et les objets bruns, avec des libellés blancs lisibles. Modern et Tritanopia conservent leurs propres palettes. **Si / sinon si / sinon** est désormais disponible dans **Logique** : l’engrenage ouvre le constructeur de branches ; les branches sinon si et Sinon peuvent y être ajoutées ou retirées. Les conditions et séquences d’actions produisent une branche native HA. Les projets existants restent compatibles.
 
 ## Grille de points depuis 0.1.51
 

diff --git a/docs/projects/blocks-for-ha/advanced.md b/docs/projects/blocks-for-ha/advanced.md
@@ -41,7 +41,7 @@ Unter **Projekt & Beschreibung → HA-Optionen** bearbeiten: `variables`, `trigg
 
 - **Warte auf Auslöser** verbindet eine Auslöserkette und bietet `timeout` / `continue_on_timeout` im Optionsfeld.
 - **Aktionsgruppe** erzeugt eine native `sequence` mit anschließbaren Schritten.
-- **Parallel** startet native parallele Zweige. Mit **+ / −** sind 1–100 Zweige möglich. Beim Entfernen eines belegten Zweigs bleibt dessen Inhalt als unverbundener Block erhalten; anschließend verbinden oder löschen.
+- **Parallel** startet native parallele Zweige. Mit dem **Zahnrad** sind 1–100 Zweige möglich. Beim Entfernen eines belegten Zweigs bleibt dessen Inhalt als unverbundener Block erhalten; anschließend verbinden oder löschen.
 - **Nur weiter wenn** erzeugt eine Bedingung als Aktionsschritt. Ereignis, Assist-Antwort und Szene haben eigene Blocks.
 - Wiederholungen unterstützen auch echte Listen/Objekte bei `for_each`; Pausen erlauben kombinierte Einheiten und Bruchteile. Erweiterte oder gemischte Zweigformen bleiben als JSON-Schritt erhalten.
 

diff --git a/docs/fr/projects/blocks-for-ha/advanced.md b/docs/fr/projects/blocks-for-ha/advanced.md
@@ -41,7 +41,7 @@ Sous **Projet et description → Options HA**, modifier `variables`, `trigger_va
 
 - **Attendre un déclencheur** relie une chaîne de déclencheurs ; `timeout` / `continue_on_timeout` se règlent dans les options.
 - **Groupe d’actions** produit une `sequence` native avec étapes connectables.
-- **Parallèle** lance des branches natives. **+ / −** permet 1–100 branches. Supprimer une branche occupée laisse ses blocs déconnectés ; les reconnecter ou supprimer.
+- **Parallèle** lance des branches natives. **L’engrenage** permet 1–100 branches. Supprimer une branche occupée laisse ses blocs déconnectés ; les reconnecter ou supprimer.
 - **Continuer seulement si** produit une condition comme étape d’action. Événement, réponse Assist et scène ont leurs blocs.
 - Les répétitions acceptent aussi des listes/objets littéraux pour `for_each` ; les délais acceptent unités combinées et fractions. Les formes complexes ou mixtes restent des étapes JSON.
 
